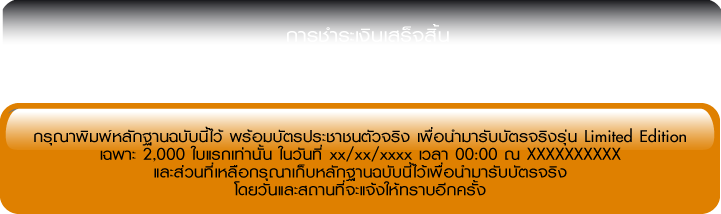
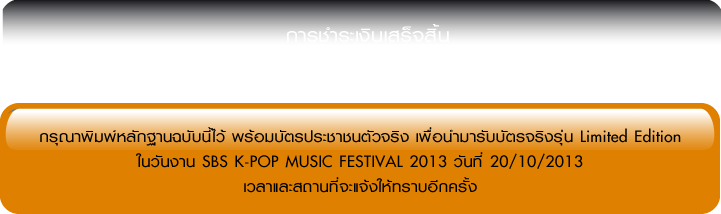
update photos and index

Changed region(s): [[0.0305, 0.5888, 0.9459, 0.9252]]

diff --git a/css/style.css b/css/style.css
@@ -250,7 +250,7 @@ form input {
 .page-booking .list .tfoot-text td { height:281px; background:transparent url("../images/booking/booking-footer-text.png") no-repeat; text-indent:-3000px; }
 
 .page-booking #content form ul {
-	width:513px; height:91px; margin:0px; padding:0px; list-style:none;
+	width:329px; height:91px; margin:0px; padding:0px; list-style:none;
 }
 .page-booking #content form ul li { float:left; height:91px; }
 
@@ -405,3 +405,27 @@ form input {
 }
 .page-booking-check form .submit:hover { background-position:0px -43px; }
 /* end booking-check */
+
+/* plan */
+.page-plan { height:750px; }
+
+.page-plan #b-container { position:absolute; top:140px; left:760px; width:172px; margin:0px; padding:0px; list-style:none; }
+.page-plan #b-container li { width:172px; height:98px; background:transparent url("../images/plan/buttons.png") no-repeat; }
+.page-plan #b-container li a { display:block; text-indent:-3000px; height:58px; width:172px;background:transparent url("../images/plan/buttons.png") no-repeat; }
+
+.page-plan #b-container li a.b-all  { background-position:0px 0px; }
+.page-plan #b-container li a.b-all-active,
+.page-plan #b-container li a.b-all:hover { background-position:0px -98px; }
+
+.page-plan #b-container li a.b-early  { background-position:-172px 0px; }
+.page-plan #b-container li a.b-early-active,
+.page-plan #b-container li a.b-early:hover { background-position:-172px -98px; }
+
+.page-plan #b-container li a.b-presale  { background-position:-344px 0px; }
+.page-plan #b-container li a.b-presale-active,
+.page-plan #b-container li a.b-presale:hover { background-position:-344px -98px; }
+
+.page-plan #b-container li a.b-fanzone  { background-position:-516px 0px; }
+.page-plan #b-container li a.b-fanzone-active,
+.page-plan #b-container li a.b-fanzone:hover { background-position:-516px -98px; }
+/* end plan */

diff --git a/css/menu.css b/css/menu.css
@@ -14,13 +14,17 @@
 #menu-1 li a.menu-facebook:hover,
 #menu-1 li.active a.menu-facebook { background-position: -153px -58px; }
 
-#menu-1 li a.menu-1 { background-position: -242px 0px; width:361px; }
+#menu-1 li a.menu-1 { background-position: -242px 0px; width:290px; }
 #menu-1 li a.menu-1:hover,
 #menu-1 li.active a.menu-1 { background-position: -242px -58px; }
 
-#menu-1 li a.menu-2 { background-position: -603px 0px; width:359px; }
+#menu-1 li a.menu-2 { background-position: -532px 0px; width:216px; }
 #menu-1 li a.menu-2:hover,
-#menu-1 li.active a.menu-2 { background-position: -603px -58px; }
+#menu-1 li.active a.menu-2 { background-position: -532px -58px; }
+
+#menu-1 li a.menu-3 { background-position: -748px 0px; width:214px; }
+#menu-1 li a.menu-3:hover,
+#menu-1 li.active a.menu-3 { background-position: -748px -58px; }
 /* end menu 1 */
 
 /* menu 2 */

diff --git a/application/views/booking-complete.php b/application/views/booking-complete.php
@@ -65,15 +65,13 @@
 				<td class="item-price"><?= number_format($zone_price) ?></td>
 				<td class="price"><?= number_format($zone_price * count($seat_list)) ?></td>
 				<?php if($key_z==0): ?>
-					<td class="status" rowspan="<?= count($zone_list) + 4 ?>" valign="top" align="center" style="padding:5px;">
+					<td class="status" rowspan="<?= count($zone_list) + 4 ?>" valign="middle" align="center" style="padding:5px;">
 					<?php if($booking_data['status']==4): ?>
 						ชำระเงินแล้ว
-						วันที่ xx/xx/xx
-						เวลา 00:00
+						วันที่ <?= util_helper_format_date(util_helper_parse_date($booking_data['pay_date'])) ?>
+						เวลา <?= util_helper_format_time(util_helper_parse_date($booking_data['pay_date'])) ?>
 					<?php elseif($booking_data['status']==3): ?>
-						รอเจ้าหน้าที่ตรวจสอบการโอนเงิน
-						วันที่ xx/xx/xx
-						เวลา 00:00
+						เจ้าหน้าที่กำลังตรวจสอบการโอนเงินของท่าน
 					<?php elseif($booking_data['status']==2): ?>
 						กรุณาชำระเงิน
 						<br />ภายในวันที่ <?= util_helper_format_date(util_helper_add_six_hour($booking_data['booking_date'])) ?>
@@ -100,7 +98,7 @@
 			</tr>
 			<tr class="tbody">
 				<td class="bg-left"></td>
-				<td colspan="5" class="sum-price" align="right">จำนวนเงินสำหรับทำบัตรแข็ง</td>
+				<td colspan="5" class="sum-price" align="right">ค่าธรรมเนียมการออกบัตร (20 บาทต่อใบ)</td>
 				<td class="price">20</td>
 				<td class="bg-right"></td>
 			</tr>

diff --git a/application/views/plan.php b/application/views/plan.php
@@ -1,0 +1,40 @@
+<div id="content-body" class="page-plan">
+	<?=$this->load->view('includes/inc-main-menu','', TRUE)?>
+
+	<div id="content">
+		<img id="all" src="<?= base_url("/images/zone/plan-all.gif") ?>" style="width:590px; height:624px; position:absolute; top:100px; left:86px;" />
+		<img id="early" src="<?= base_url("/images/zone/plan-early.gif") ?>" style="width:590px; height:623px; position:absolute; top:100px; left:86px; display:none;" />
+		<img id="presale" src="<?= base_url("/images/zone/plan-presale.gif") ?>" style="width:590px; height:624px; position:absolute; top:100px; left:86px; display:none;" />
+		<img id="fanzone" src="<?= base_url("/images/zone/plan-fanzone.gif") ?>" style="width:590px; height:624px; position:absolute; top:100px; left:86px; display:none;" />
+
+		<ul id="b-container">
+			<li class="b-all-container"><a href="#all" class="b-all-active">ทั้งหมด</a></li>
+			<li class="b-early-container"><a href="#early" class="b-early">ทั้งหมด</a></li>
+			<li class="b-presale-container"><a href="#presale" class="b-presale">ทั้งหมด</a></li>
+			<li class="b-fanzone-container"><a href="#fanzone" class="b-fanzone">ทั้งหมด</a></li>
+		</ul>
+	</div>
+</div>
+<script type="text/javascript">
+	$(function(){
+		var imgs = $('#content img'),
+			buttons = $('#b-container a');
+		buttons.click(function(e){
+			e.preventDefault();
+
+			var el = $(this),
+				href=$(this).attr('href');
+
+			buttons.each(function(i,o){
+				var cls = $(o).attr('class');
+				$(o).removeClass(cls).addClass(cls.replace('-active',''));
+			});
+			imgs.hide();
+
+			$(href).show();
+
+			el.attr('class', el.attr('class')+'-active');
+
+		});
+	});
+</script>

diff --git a/application/views/booking.php b/application/views/booking.php
@@ -55,7 +55,7 @@
 				<td class="item-price"><?= number_format($zone_price) ?></td>
 				<td class="price"><?= number_format($zone_price * count($seat_list)) ?></td>
 				<?php if($key_z==0): ?>
-					<td class="status" align="center" rowspan="<?= count($zone_list) + 4 ?>" valign="top" style="padding:5px;">
+					<td class="status" align="center" rowspan="<?= count($zone_list) + 4 ?>" valign="middle" style="padding:5px;">
 						กรุณาชำระเงิน
 						<br />ภายในวันที่ <?= util_helper_format_date(util_helper_add_six_hour(new DateTime())) ?>
 						<br />ก่อนเวลา <?= util_helper_format_time(util_helper_add_six_hour(new DateTime())) ?>
@@ -78,7 +78,7 @@
 			</tr>
 			<tr class="tbody">
 				<td class="bg-left"></td>
-				<td colspan="4" class="sum-price" align="right">ค่าธรรมเนียมการออกบัตร</td>
+				<td colspan="4" class="sum-price" align="right">ค่าธรรมเนียมการออกบัตร (20 บาทต่อใบ)</td>
 				<td class="price"><?= count($seat_list) * 20 ?></td>
 				<td class="bg-right"></td>
 			</tr>
@@ -107,9 +107,9 @@
 								));
 							?>
 						</li>
-						<li class="pdf-ctnr">
+						<!--li class="pdf-ctnr">
 							<a href="<?= site_url('pdf/print_booking/'.$booking_data['id']) ?>" class="pdf"></a>
-						</li>
+						</li-->
 						<li class="cancel-ctnr">
 							<a href="<?= site_url('zone_early/'.$booking_data['id']) ?>" class="cancel"></a>
 						</li>

diff --git a/application/controllers/pdf.php b/application/controllers/pdf.php
@@ -621,7 +621,7 @@ $tbl = '<table cellspacing="0" cellpadding="3" border="0">
 
 		// CARD
 		$pdf->Cell(array_sum(array($w[0],$w[1],$w[2],$w[3],$w[4]))
-			, 6, 'จำนวนเงินสำหรับทำบัตรแข็ง', 'LRTB', 0, 'R', 1);
+			, 6, 'ค่าธรรมเนียมการออกบัตร (20 บาทต่อใบ)', 'LRTB', 0, 'R', 1);
 		$pdf->Cell($w[5], 6, '20', 'LRTB', 0, 'R', 1);
 		$pdf->Ln();
 
@@ -642,9 +642,8 @@ $tbl = '<table cellspacing="0" cellpadding="3" border="0">
 		$pdf->SetTextColor(0, 0, 0);
 		$pdf->MultiCell(0, 0,
 'กรุณาพิมพ์หลักฐานฉบับนี้ไว้ พร้อมบัตรประชาชนตัวจริง เพื่อนำมารับบัตรจริงรุ่น Limited Edition
-เฉพาะ 2,000 ใบแรกเท่านั้นในวันที่ xx/xx/xxxx เวลา 00:00 น. ณ xxxxxxxxxxxxxx
-และส่วนที่เหลือกรุณาเก็บหลักฐานนี้ไว้เพื่อนำมารับบัตรจริง
-โดยวันและสถานที่จะแจ้งให้ทราบอีกครั้ง', 1, 'C', 1, 1);
+ในวันงาน SBS K-POP MUSIC FESTIVAL 2013 วันที่ 20/10/2013
+เวลาและสถานที่จะแจ้งให้ทราบอีกครั้ง', 1, 'C', 1, 1);
 
 
 		$pdf->SetY(-40);

diff --git a/application/views/zone-early-soldout.php b/application/views/zone-early-soldout.php
@@ -3,6 +3,27 @@
 
 	<div id="content">
 		<img src="<?= base_url("/images/zone/plan-early-soldout.gif") ?>"
-			style="width:590px; height:623px; position:absolute; left:32px; top:115px; left:203px;" />
+			style="width:590px; height:623px; position:absolute; top:115px; left:76px;" />
+
+		<p style="color:white; position:absolute; top:120px; left:635px; text-align:center; width: 330px;">
+			ขณะนี้บัตร early bird ได้ถูกจองเต็มจำนวนแล้ว
+			<br />
+			ท่านสามารถสำรองรายชื่อได้
+			<br />โดยเลือกที่จำนวนด้านล่าง
+			<br />และกดปุ่ม waiting list
+			<br />
+			<br />
+			<select>
+				<option value="1">1</option>
+				<option value="2">2</option>
+				<option value="3">3</option>
+				<option value="4">4</option>
+				<option value="5">5</option>
+				<option value="6">6</option>
+			</select>
+			<br />
+			<br />
+			<input type="submit" value="waiting list" />
+		</p>
 	</div>
 </div>

diff --git a/application/controllers/member.php b/application/controllers/member.php
@@ -24,10 +24,22 @@ class Member extends CI_Controller {
 	}
 
 	function login(){
-		$r_url = $this->input->post('rurl');
+		// fix user for test
+		$user_test = $this->input->post('username');
+		if(!empty($user_test)){
+			if($user_test=='khemmac' || $user_test=='testsbs1' || $user_test=='testsbs2'
+			 || $user_test=='testsbs3' || $user_test=='testsbs4' || $user_test=='testsbs5'){
+			 	// user is for test correct
+			 }else{
+			 	echo 'USER IS NOT FOR TEST';
+				return;
+			 }
+		}
 
-		if(empty($r_url))
-			$r_url = 'index';
+		//$r_url = $this->input->post('rurl');
+
+		//if(empty($r_url))
+			$r_url = 'index/index2';
 
 		if(is_user_session_exist($this))
 			redirect('index');
@@ -62,11 +74,6 @@ class Member extends CI_Controller {
 	}
 
 	function register(){
-		$pass = $this->input->get('pass');
-		if($pass!='1123')
-			redirect('index');
-
-
 		if(is_user_session_exist($this))
 			redirect('member/profile');
 

diff --git a/application/views/layouts/default.php b/application/views/layouts/default.php
@@ -59,7 +59,11 @@
 </ol>
 
 <h4 style="text-align:center;">ติดต่อสอบถามโทร 02-938-5959 ต่อ 130 , 084-342-2230 และ 089-811-1801</h4>
-<div style="text-align:center;"><a style="color:black; text-decoration:underline;" href="<?= base_url('images/pdf/term_condition.pdf') ?>" target="_blank">ดาวน์โหลดข้อกำหนดและเงื่อนไข</a></div>
+<div style="text-align:center;">
+	<img src="<?= base_url('images/common/condition-logo.gif') ?>" style="border:0px;" />
+	<br />
+	<a style="color:black; text-decoration:underline;" href="<?= base_url('images/pdf/term_condition.pdf') ?>" target="_blank">ดาวน์โหลดข้อกำหนดและเงื่อนไข</a>
+</div>
 
 			</div>
 			<input type="checkbox" name="chk-dont-show-popup" id="chk-dont-show-popup" />

diff --git a/application/views/includes/inc-main-menu.php b/application/views/includes/inc-main-menu.php
@@ -3,7 +3,7 @@
 ?>
 <?php if(is_user_session_exist($this)): ?>
 <ul id="menu-2">
-	<li><a href="<?= site_url() ?>" class="menu-boost"></a></li>
+	<li><a href="<?= site_url('index/index2') ?>" class="menu-boost"></a></li>
 	<li><a href="https://www.facebook.com/boostplus" target="_blank" class="menu-facebook"></a></li>
 	<li><a href="<?= site_url('zone_early') ?>" class="menu-1"></a></li>
 	<li><a href="<?= site_url('transfer') ?>" class="menu-2"></a></li>
@@ -20,6 +20,7 @@
 	<li><a href="#" class="menu-boost"></a></li>
 	<li><a href="#" class="menu-facebook"></a></li>
 	<li><a href="#common-popup" class="menu-1 show-boxes"></a></li>
-	<li><a href="#contact-us-popup" class="menu-2 show-boxes"></a></li>
+	<li><a href="<?= site_url('plan') ?>" class="menu-2"></a></li>
+	<li><a href="#contact-us-popup" class="menu-3 show-boxes"></a></li>
 </ul>
 <?php endif; ?>

diff --git a/application/views/landing.php b/application/views/landing.php
@@ -47,7 +47,7 @@
 		    right: 0;
 		    top: 0;
 		    z-index: 1;
-		    display: none;
+		    /*display: none;*/
 		}
 	</style>
 	<script type="text/javascript">
@@ -146,7 +146,7 @@
 	<!--<span id="footer" style="position:absolute; bottom:20px; right:30px; display:block; width:207px; height:16px; background:transparent url('../images/common/foot-contact.png') no-repeat; text-indent:-9000px;">ติดต่อสอบถาม 02-938-5959</span>-->
 
 	</div>
-	<div style="position: absolute; top: 10%; left: 23%; display: none;">
+	<div style="position: absolute; top: 8%; left: 38%;"> <!--display: none;-->
 		<div id="box_popup">
 			<a href="javascript:void(0);" class="brn_close"> <img src="<?= base_url('images/pop_up/close_buttom.png') ?>" /> </a>
 			<img src="<?= base_url('images/pop_up/pop-up.png') ?>" />

diff --git a/application/controllers/plan.php b/application/controllers/plan.php
@@ -1,0 +1,22 @@
+<?php
+class Plan extends CI_Controller {
+
+
+	function __construct()
+	{
+		parent::__construct();
+
+		$this->load->library('form_validation');
+		$this->form_validation->set_error_delimiters('', '');
+		$this->output->set_header('Cache-Control: no-cache, no-store, must-revalidate, max-age=0');
+		$this->output->set_header('Cache-Control: post-check=0, pre-check=0', FALSE);
+		$this->output->set_header('Cache-Control: max-age=-1281, public, must-revalidate, proxy-revalidate', FALSE);
+		$this->output->set_header('Pragma: no-cache');
+	}
+
+	function index(){
+		$this->phxview->RenderView('plan');
+		$this->phxview->RenderLayout('default');
+	}
+
+}
